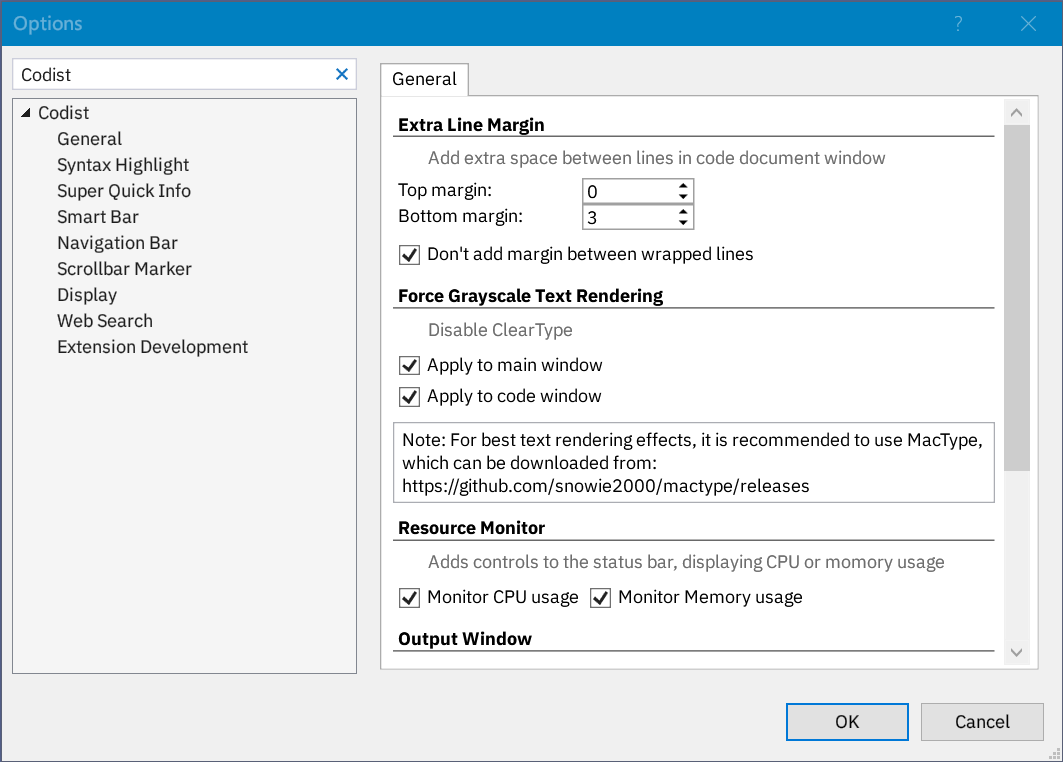
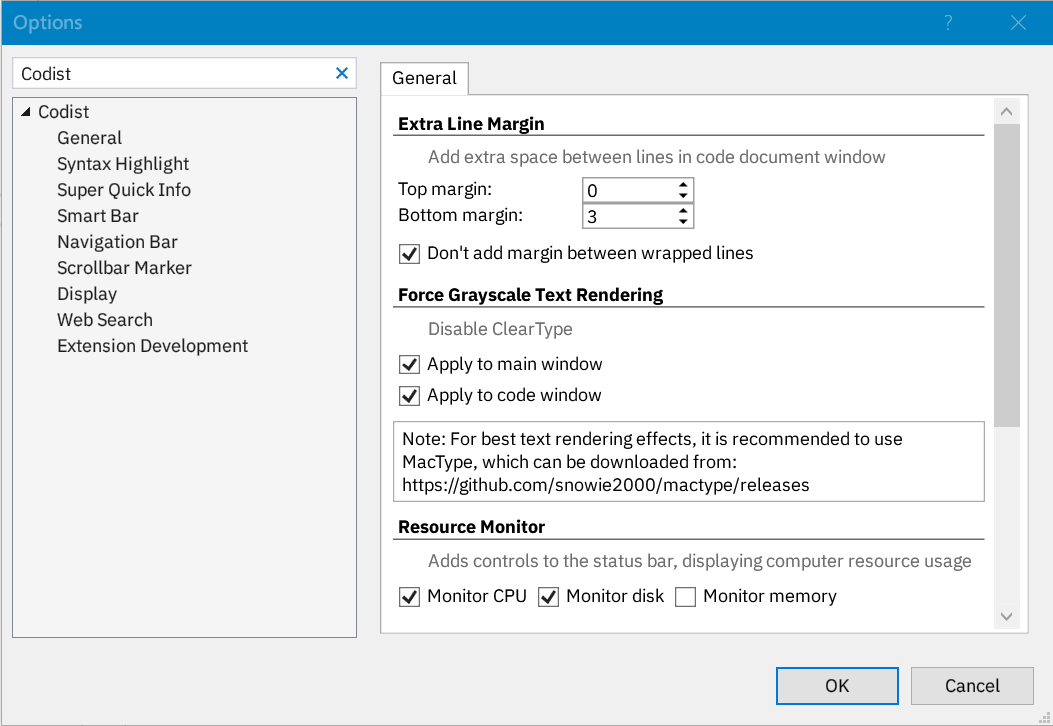
Version 6.6

diff --git a/Codist/Config.cs b/Codist/Config.cs
@@ -16,7 +16,7 @@ namespace Codist
 {
 	sealed class Config
 	{
-		internal const string CurrentVersion = "6.5.3";
+		internal const string CurrentVersion = "6.6.0";
 		const string ThemePrefix = "res:";
 		const int DefaultIconSize = 20;
 		internal const string LightTheme = ThemePrefix + "Light", PaleLightTheme = ThemePrefix + "PaleLight", DarkTheme = ThemePrefix + "Dark", PaleDarkTheme = ThemePrefix + "PaleDark", SimpleTheme = ThemePrefix + "Simple";
@@ -177,8 +177,8 @@ namespace Codist
 			}
 		}
 
-		static void UpgradeConfig(Config config, Version v) {
-			if (v < new Version(6, 6) && config.QuickInfoOptions.MatchFlags(QuickInfoOptions.AlternativeStyle) == false) {
+		static void UpgradeConfig(Config config, Version oldVersion) {
+			if (oldVersion < new Version(6, 6) && config.QuickInfoOptions.MatchFlags(QuickInfoOptions.AlternativeStyle) == false) {
 				config.QuickInfoOptions |= QuickInfoOptions.AlternativeStyle;
 				__Updated?.Invoke(new ConfigUpdatedEventArgs(config, Features.SuperQuickInfo));
 			}

diff --git a/Codist/Properties/AssemblyInfo.cs b/Codist/Properties/AssemblyInfo.cs
@@ -11,5 +11,5 @@ using System.Runtime.InteropServices;
 [assembly: AssemblyTrademark(nameof(Codist))]
 [assembly: ComVisible(false)]
 [assembly: AssemblyVersion("6.0.0.0")]
-[assembly: AssemblyFileVersion(Codist.Config.CurrentVersion + ".7500")]
+[assembly: AssemblyFileVersion(Codist.Config.CurrentVersion + ".7700")]
 [assembly: NeutralResourcesLanguage("en-US", UltimateResourceFallbackLocation.Satellite)]

diff --git a/TestProject/Methods.cs b/TestProject/Methods.cs
@@ -9,7 +9,7 @@ namespace TestProject
 	internal class Methods : IDisposable
 	{
 		public Methods() {
-			M(null);
+			M("");
 		}
 
 		~Methods() {

diff --git a/README.md b/README.md
@@ -164,15 +164,12 @@ To customize the *Super Quick Info*, adjust the settings in the options page.
 
 _Super Quick Info_ especially enhances programming experience for C# programmers. There are plenty of options available in the options page.
 
-![Super Quick Info - Options](doc/super-quick-info-csharp-options.png)
+<img src="doc/super-quick-info-csharp-options.png" title="" alt="Super Quick Info - Options" width="617">
 
-* **Click and go** to source code of symbol definition
-  
-  If a symbol is defined in your source code, you can click and go to its definition on the Quick Info window. No need to hit `F12` on your keyboard any more! Even more, _Codist_ also tells you where the symbol is defined if you hover your mouse over it.
-  
-  ![Super Quick Info - Click and Go](doc/super-quick-info-click-go.png)
+* **Use enhanced symbol signature style** is a new setting in version 6.6, enabled by default, which optimizes the display of symbol signatures with a reorganized layout. The layout is especially optimized for long and complex signatures, yet ordinary short symbols can also benefit from it. The following is an example for the style. A large icon on the top-left part of the quick info can be clicked and brings out a menu for symbol analysis. Next to the icon is the name of the symbol with larger text size. Clicking on the name can jump to its definition. The parameters for the method are listed next. The reorganized layout never breaks the parameter type from its name, so it is easier to find out and locate each parameter type and name. Beneath the signature is the containing type of the symbol, as well the kind of the symbol. And the member type (return value) of the symbol is under the containing type.
+  ![C# optimized quick info](doc/csharp-optimized-quick-info.png)
 
-* A **Context menu** with many symbol analysis commands will show up when you right click the signature of the symbol definition or any symbol that appears in the XML Doc.
+* A **Context menu** with many symbol analysis commands will show up when you right click the signature of the symbol definition or any symbol that appears in the Super Quick Info.
   
   ![Super Quick Info Csharp Menu](doc/super-quick-info-csharp-menu.png)
 
@@ -209,8 +206,6 @@ When _Override XML Documentation_ checkbox is checked in the options page, it is
 _Codist_ shows XML Doc for those `namespace`s with an embedded `NamespaceDoc` class, like what is done in [SandCastle](https://github.com/EWSoftware/SHFB).
 
  ![Super Quick Info Csharp Namespace](doc/super-quick-info-csharp-namespace.png)
-
-* **Use alternative style** option moves the glyph of the symbol to the bottom-right of the quick info, and [removes individual hyperlinks within the symbol signature parts](https://github.com/wmjordan/Codist/issues/102), which comes with Visual Studio 2019 update 3, in order to make it easier to use the _Click and Go_ feature on the symbol.
 
 ### Additional Quick Info Items
 
@@ -478,17 +473,21 @@ Press the "Save" button to save the settings and Codist will change build number
 
 In the *Display* tab of the *General* options page, several display enhancement options are offered.
 
-![General Options Display](doc/display-options.png)
+<img src="doc/display-options.png" title="" alt="General Options Display" width="783">
 
-  Within the *Extra line margins* group box, you can adjust margins between lines to make code lines more readable.
+Within the *Extra line margins* group box, you can adjust margins between lines to make code lines more readable.
 
-  Programmers who do not like *ClearType* rendering, which made text blurry and colorful, may want to try _Force Grayscale Text Rendering_ options.
+Programmers who do not like *ClearType* rendering, which made text blurry and colorful, may want to try _Force Grayscale Text Rendering_ options.
+
+From version 6.6 on, resource monitors can be used to monitorCPU, disk and memory usage via the status bar on Visual Studio. Checking the *Monitor CPU*, *Monitor disk* or _Monitor memory_ check box enables the corresponding monitors.
+
+![Resource Monitors](doc/resource-monitors.png)
 
 It is possible to use Compact menu like _Visual Studio 2019_ in _Visual Studio 2017_. Simply checking the _Move main menu to title bar_ option will do.
 
 ![Compact Menu](doc/compact-menu.png)
 
-From version 6.3 on, it is possible to hide some elements from the user interface of Visual Studio from options under the _Layout Override_ section.
+By checking the check boxes started with "Hide...", it is possible to hide some elements from the user interface of Visual Studio from options under the _Layout Override_ section.
 
 ## Jump List Shortcuts
 
